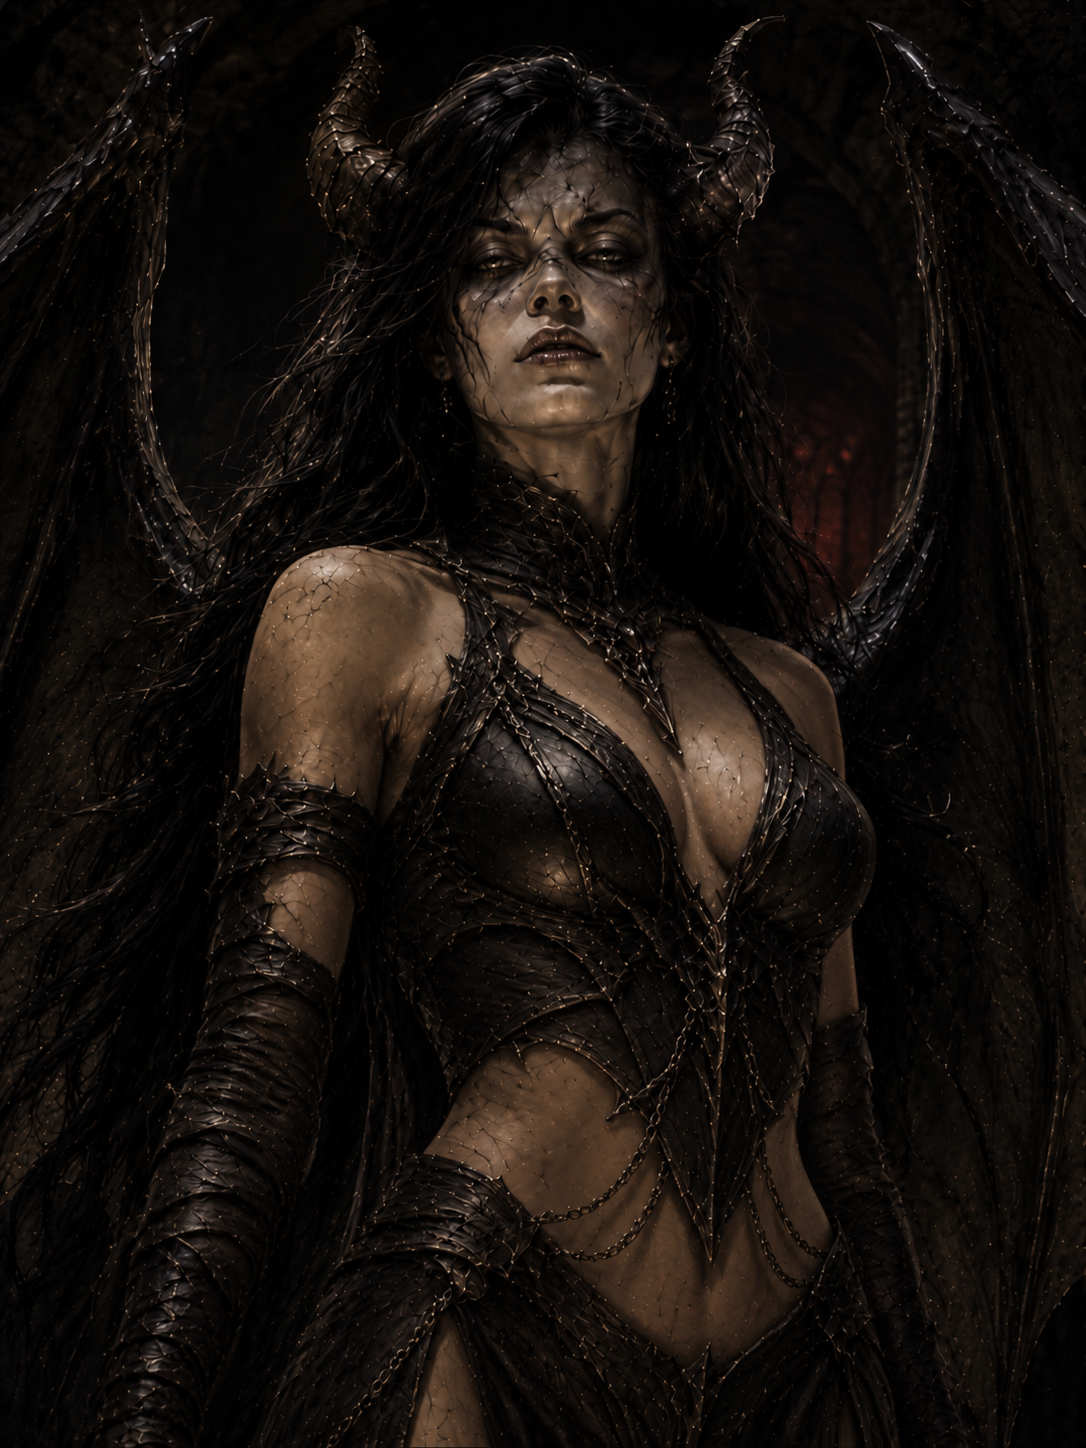
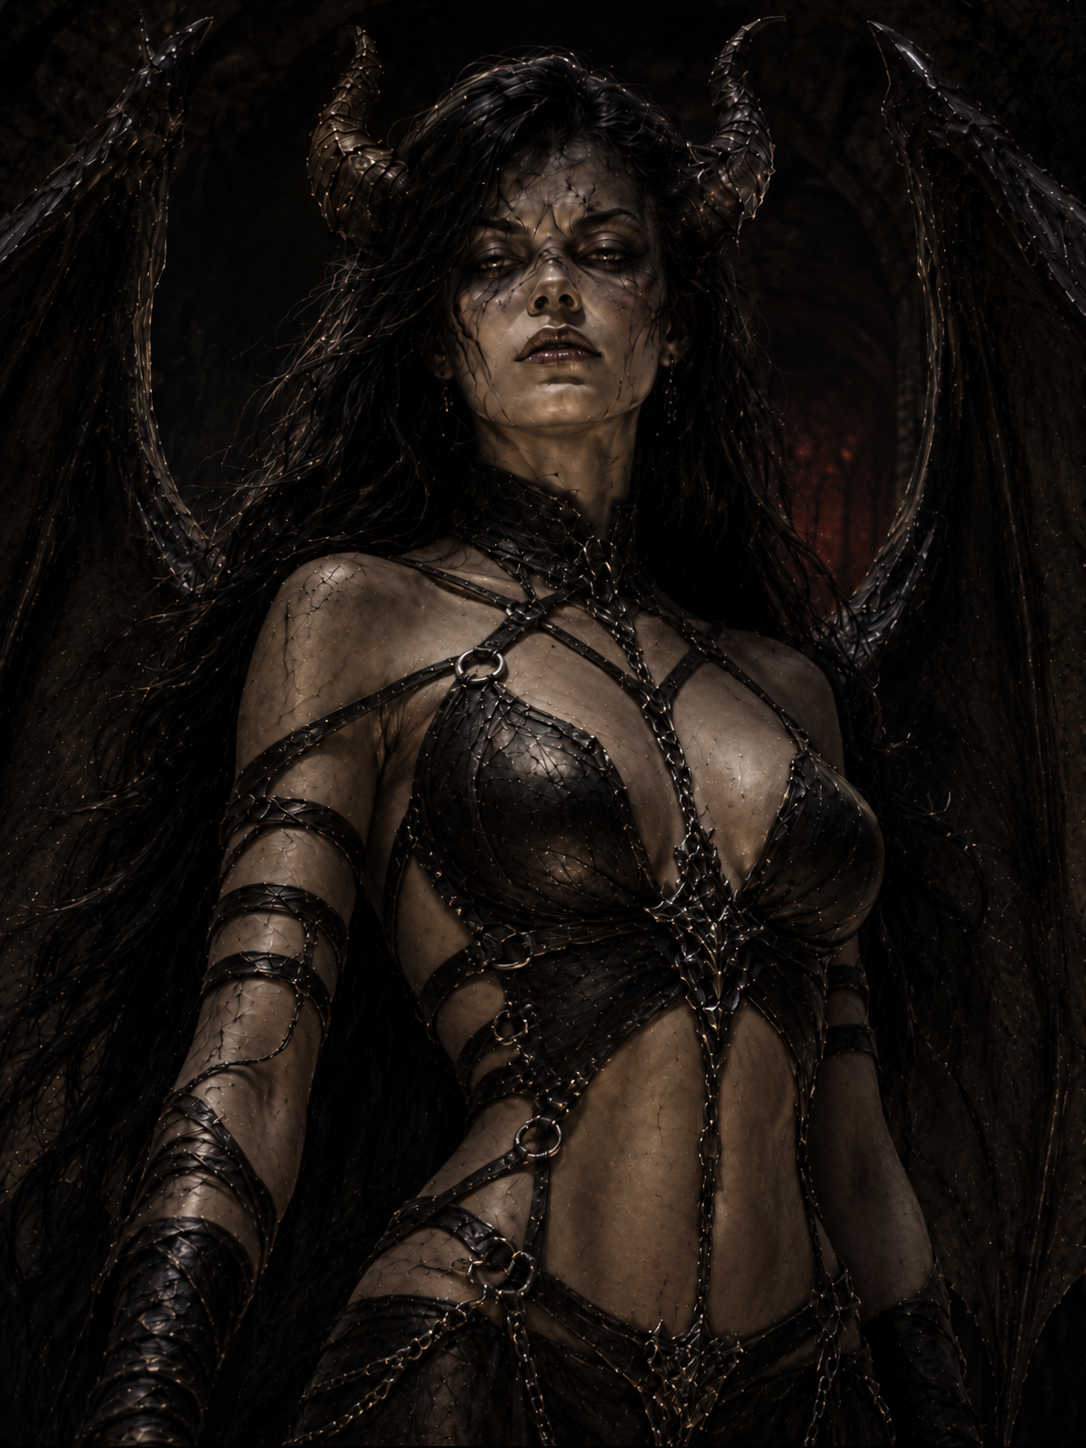
Adopt the strap-and-chain harness as Areelu's canonical look
Matt prefers the version I had treated as a misfire. Swaps the
portrait to it and rewrites her CANON costume anchors to describe
what it actually shows: thin dark leather straps crossing the
collarbones, ribs and midriff, joined by dull steel rings and hung
with fine chains, small shaped leather panels at the chest, bare
shoulders and arms and midriff, leather banding down the forearms,
a dark band at the throat.

Also removes the last remnant of the false drift note. With the
strap harness being the wanted result, the costume pass produced no
defect at all — the "revealing yields a strap harness, name a solid
bodice to fix it" entry described a fix for something that was never
broken. The general sexualization rule now says only that Areelu is
exempt from the covered-armor negatives, holding the line at nudity
and explicit content alone.

diff --git a/characters/CANON.md b/characters/CANON.md
@@ -34,15 +34,14 @@ kit guide disagree, the kit guide wins.
 | **Iomedae** | [`iomedae.png`](iomedae.png) | Allies & Powers | The Inheritor, goddess of righteous valor. Human woman; **short black hair in a chin-length bob**, pale skin, dark eyes. **She emits a subtle divine radiance** — a soft glow clinging to her person that lights the air around her. Never a halo ring, glowing eyes, beams, or rays. **Mirror-polished silver-white full plate with fine gold edging**, a **rich clean crimson cloak**, a **silver-white kite shield bearing a gold eight-pointed starburst**, and a long straight **longsword held point-down, both hands resting on the pommel**. **Her gear is ALWAYS immaculate — no dent, scratch, smudge, soot, rust, tatter, or battle damage, ever, however ruined the setting around her.** **Only her FACE bears scars — the remnant of her mortal life:** a pale scar down her left cheek, weathered and lined, a woman of middle years carrying the gravity of ages. Never a smooth, young, unmarked face. **Fully covering plate — gorget, pauldrons, vambraces, gauntlets, faulds, and fully armored legs. Never bare thighs, bare midriff, a contoured/anatomical breastplate, or bikini-plate.** *(Fresh house-style render; the original 188×268 source thumbnail was low-resolution, young-faced, and bare-legged, and is superseded.)* |
 | **Rothin Vald** | [`rothin.png`](rothin.png) | Varic's Temple | Human priest of Sarenrae, middle-aged; dark hair swept back from a widow's peak and greying at the temples, **full dark beard shot with grey**, heavy dark brows, **pale blue-teal eyes**, stern and serious. Teal-blue tunic with a gold band at the collar over a brown undershirt. Varic's cohort; keeper of the Hidden Temple of Sarenrae west of Drezen. |
 | **Irabeth Tirabade** | [`irabeth.png`](irabeth.png) | Allies & Powers | Half-orc woman, paladin of Iomedae and crusade commander; **green-grey skin**, short dark tousled hair, strong noble features, weathered and resolute with a commander's steady bearing. **Two small lower tusks jutting subtly upward — dignified and proud, NOT a brutish caricature** (a noble half-orc, in the same register as Harlock, only openly tusked). **An old scar down her left cheek.** Battered, campaign-worn steel plate bearing **Iomedae's sunburst** at the chest and pauldrons — dented, honest, fully covering. Wife to **Anevia Tirabade**. |
-| **Areelu Vorlesh** | [`areelu-vorlesh.png`](areelu-vorlesh.png) | Adversaries | The witch who tore open the Worldwound; a human woman partway through becoming a succubus, and vain about it. **Striking and handsome, full-featured, a woman in her prime — NEVER gaunt, hollow-cheeked, emaciated, or skull-like.** Long black hair; olive-pale skin; **amber-yellow eyes that are no longer human**; two large dark horns sweeping up and back from the temples; **large dark membranous bat wings**; fingers tapering to dark claws. **Her default expression is cold, imperious, half-lidded contempt with the mouth closed** — the snarl belongs to the one scene, not to her. **Costume — she is the deliberate exception to the "cover her up" rule below:** she dresses to flaunt what she is becoming, in dark leather and blackened metal — a *solid, fitted* bodice with a deep plunging V, bare shoulders and upper arms, bare midriff, close-wrapped vambraces, a heavy collar at the throat, fine chains. Revealing but structured and clearly clothed; **not a harness of thin straps, and never explicit.** *Scene note: in Book I, Ch. XI she appears only as a **semi-transparent projection** flung across the planes — that transparency is the scene's, not hers; she is solid everywhere else.* |
+| **Areelu Vorlesh** | [`areelu-vorlesh.png`](areelu-vorlesh.png) | Adversaries | The witch who tore open the Worldwound; a human woman partway through becoming a succubus, and vain about it. **Striking and handsome, full-featured, a woman in her prime — NEVER gaunt, hollow-cheeked, emaciated, or skull-like.** Long black hair; olive-pale skin; **amber-yellow eyes that are no longer human**; two large dark horns sweeping up and back from the temples; **large dark membranous bat wings**; fingers tapering to dark claws. **Her default expression is cold, imperious, half-lidded contempt with the mouth closed** — the snarl belongs to the one scene, not to her. **Costume — she is the deliberate exception to the "cover her up" rule below:** she dresses to flaunt what she is becoming. **A harness of thin dark leather straps** crossing her collarbones, ribs and midriff in long diagonals, joined at the junctions by **dull steel rings** and hung with **fine chains**; small shaped **leather panels** at the chest are the only solid pieces. Bare shoulders, bare upper arms, bare midriff and bare flanks; **close-wrapped leather banding down the forearms**; a **dark band at the throat**. All of it blackened leather and dull metal, muted and earthy — no bright colour, no gemstones. Deliberately provocative and harness-like rather than armoured or gowned — **clothed, and never explicit.** *Scene note: in Book I, Ch. XI she appears only as a **semi-transparent projection** flung across the planes — that transparency is the scene's, not hers; she is solid everywhere else.* |
 | **Aravashnial** | *(no portrait — text anchor)* | Allies & Powers | Blind elf Riftwarden wizard, gaunt and weathered. **His ruined eyes are FULLY BANDAGED — thin linen wrapped around his head, never visible or ruined eyes on show.** **Leans on a wooden walking staff.** Worn, travel-stained scholar's robes. A still, sightless presence; in Book I scenes he is a background figure, not an actor. *(Rescued from the wreckage of Kenabres; scholar of the demons and their plots.)* **BLIND LOOK APPLIES TO BOOK I AND THE FIRST DAYS AFTER ONLY.** At the Queen's commission in Kenabres (Book II, *A Queen's Commission*) Galfrey's priest regenerates his eyes: **from that scene onward, no bandages and no staff — sighted, sharp, and considerably more animated.** |
 
 ## Known drift — state the negatives explicitly in every prompt
 
 Image models fall into the same traps repeatedly. Descriptions here are **prescriptive**: if an anchor is silent on something, the model invents it, and it invents these:
 
-- **Fantasy-armor sexualization.** Any woman in "leather" trends toward a bikini, bare midriff, or strap harness. Arueshalae in particular is a succubus, which pulls hard in that direction — she is a *penitent*, dressed as a working scout in covered leathers. Always say **"fully covered, modest, practical armor"** and add `bare midriff, revealing outfit, bikini armor, cleavage` to the Avoid line. **The one deliberate exception is Areelu Vorlesh**, who is written to flaunt her emerging succubus nature — do **not** reflexively cover her up; see her row. Even for her, the garment is *structured clothing*, never a few thin straps, and never explicit: ask for a **solid fitted bodice** and put `a bodice made only of thin straps, nudity, explicit content` in the Avoid line instead.
-- **"Revealing" alone yields a strap harness.** Asked for a more revealing costume, the model returned a web of thin straps rather than clothing. Naming the garment — **"a solid, fitted bodice that plainly covers"** — fixed it in one pass. This is the *only* effect the costume change actually had: the face and the framing did not move. (See Areelu's row.)
+- **Fantasy-armor sexualization.** Any woman in "leather" trends toward a bikini, bare midriff, or strap harness. Arueshalae in particular is a succubus, which pulls hard in that direction — she is a *penitent*, dressed as a working scout in covered leathers. Always say **"fully covered, modest, practical armor"** and add `bare midriff, revealing outfit, bikini armor, cleavage` to the Avoid line. **The one deliberate exception is Areelu Vorlesh**, who is written to flaunt her emerging succubus nature — do **not** reflexively cover her up, and do **not** put the covered-armor negatives above in her Avoid line. Her canonical costume *is* a strap-and-chain harness; see her row for the specifics, and hold the line only at `nudity, explicit content`.
 - **Orc caricature.** "Half-orc" alone yields tusks, an underbite, and a brutish snout. Harlock has none of these. Say **"no tusks, no underbite, clean strong human-like jaw"** and put `tusks, underbite, protruding lower teeth, brutish features` in the Avoid line.
 - **Child-like characters must never be sexualized** — but say so **positively, never as negatives.** Any prompt depicting a child (Cornelia, or a PC rendered young in a dream) describes the clothing as **"simple, sturdy, plain and neat, long-sleeved, fully covering everyday clothing"** and the figure as **"a child with youthful childlike proportions."** **Do NOT put `sexualized`, `bare torso`, `bare midriff`, `adult proportions`, or `revealing clothing` in the Avoid line of a prompt depicting a child.** Safety classifiers do not parse negation: those words sitting beside a child's description read as intent and get the whole prompt refused before it renders. (This is the reverse of the rule for adult women like Arueshalae, where the explicit negatives are required — see the entry above.) Learned the hard way on Rabiah's `beneath-the-stairs`, which was refused at the prompt stage on the first attempt.
 - **Deities are not weathered mortals.** A god depicted in the chronicle **emits a subtle divine glow** and their raiment, armor, and weapons are **flawless — no dent, smudge, soot, rust, tatter, or battle damage — no matter how ruined the setting around them.** The contrast against a crumbling, filthy world is the point, and the glow is the image's single luminous accent. **Only a deity's face may bear scars**, as a remnant of a mortal life (Iomedae's do; her armor never does). Left unsaid, the model will distress a god's gear to match the environment. Applies to Iomedae, Sarenrae, and Desna alike.
